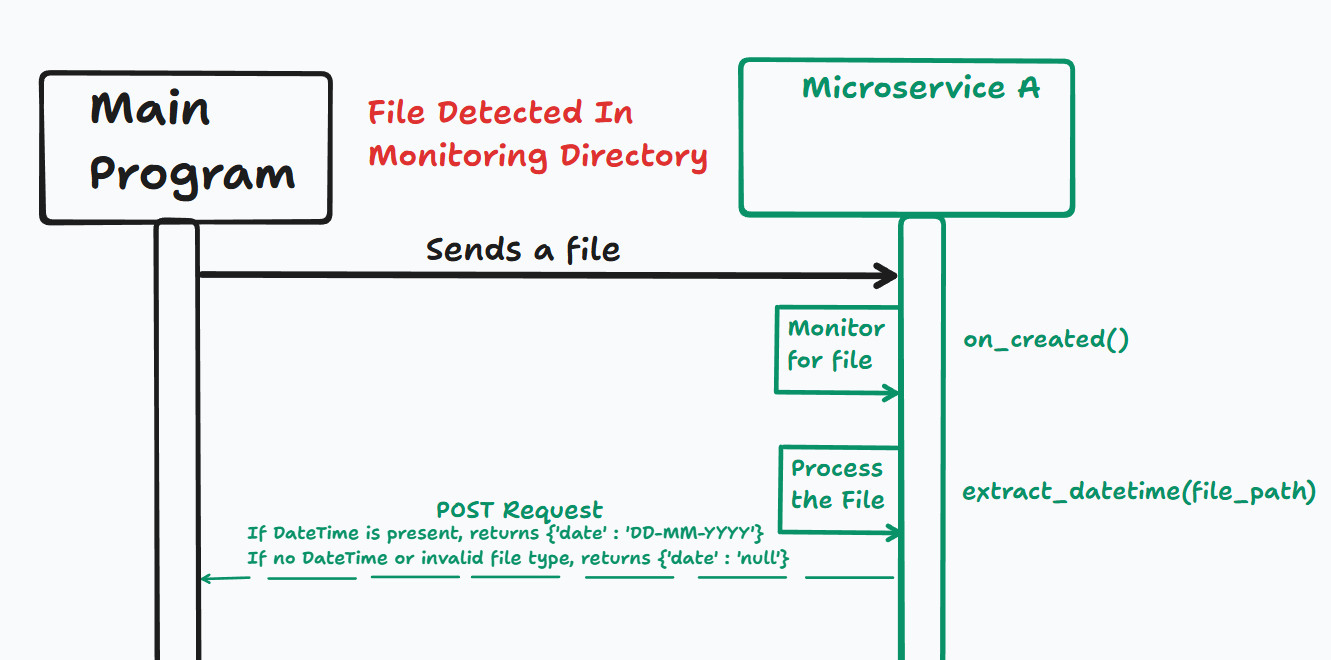
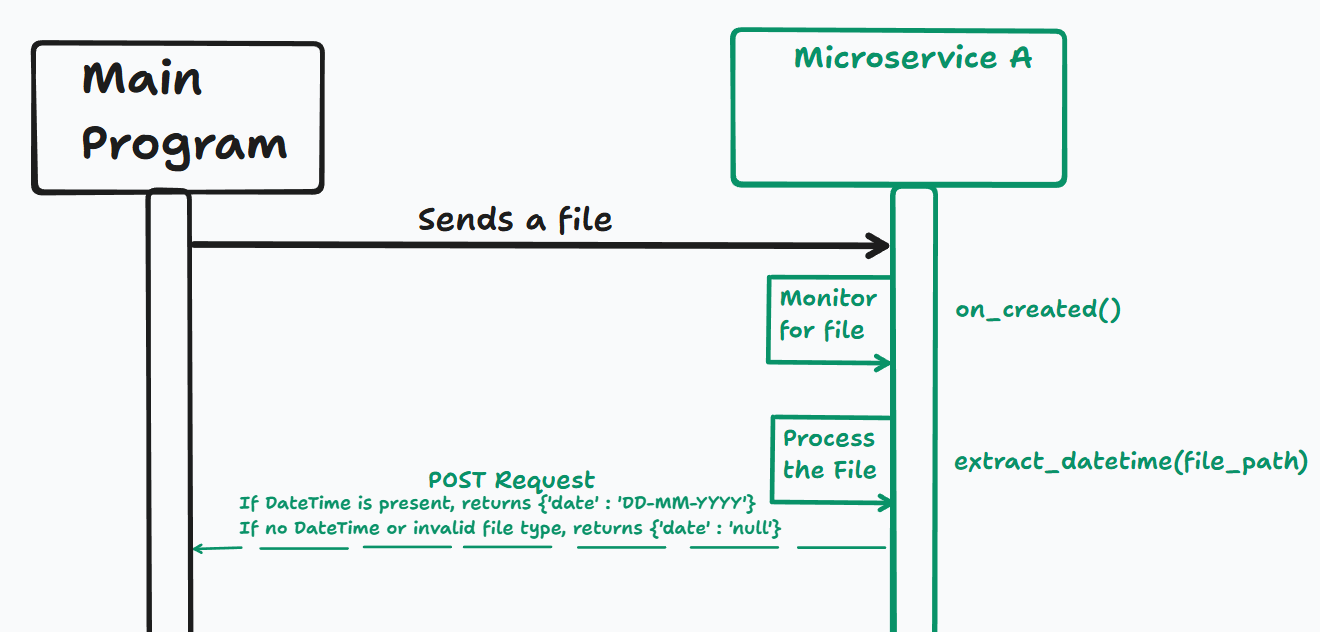
readme

Changed region(s): [[0.0, 0.0301, 0.8076, 1.0], [0.7144, 0.7215, 0.9939, 0.7816], [0.7144, 0.481, 0.8697, 0.5411]]

diff --git a/README.md b/README.md
@@ -17,7 +17,7 @@ Clone the project
 ```bash
   git clone https://github.com/mitch1625/microserviceA.git
 ```
-
+![sequence_diagram.png](sequence_diagram.png)
 Create a virtual environment and install dependencies
 
 ```bash
